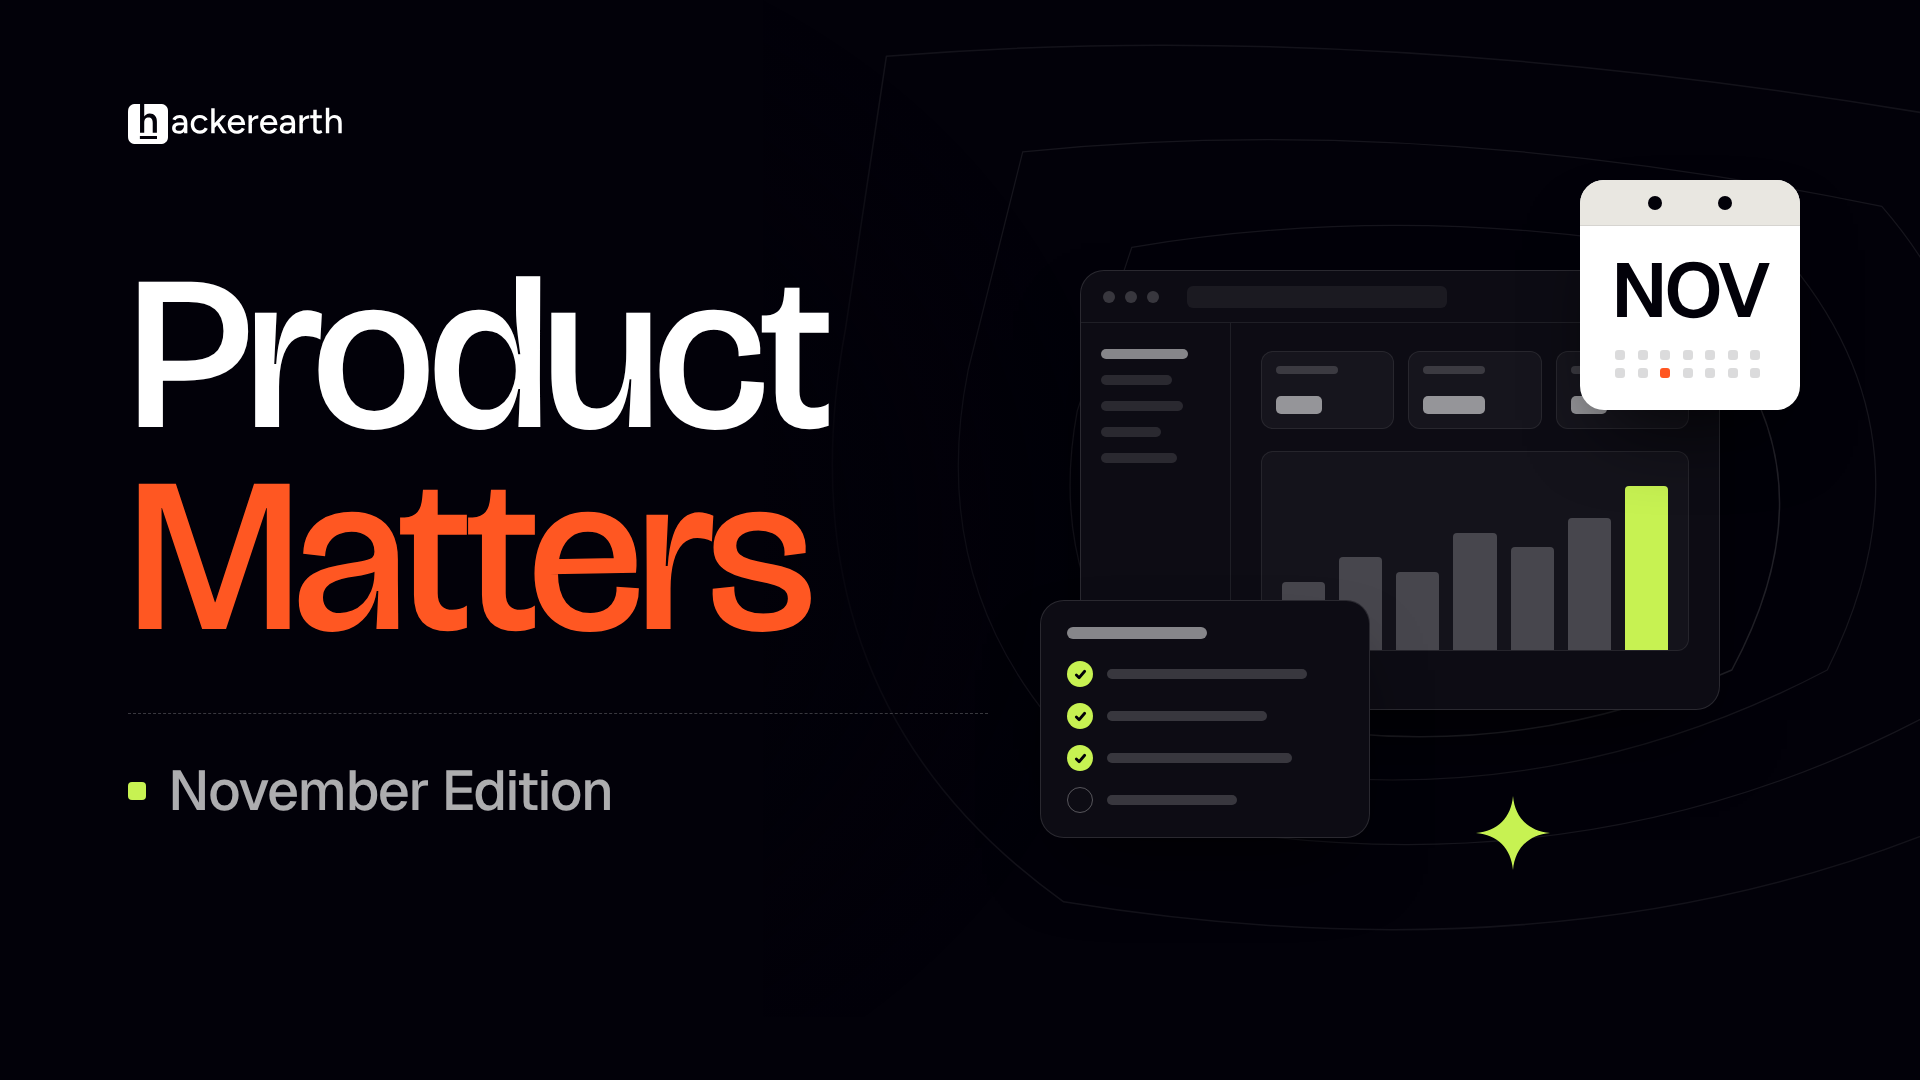
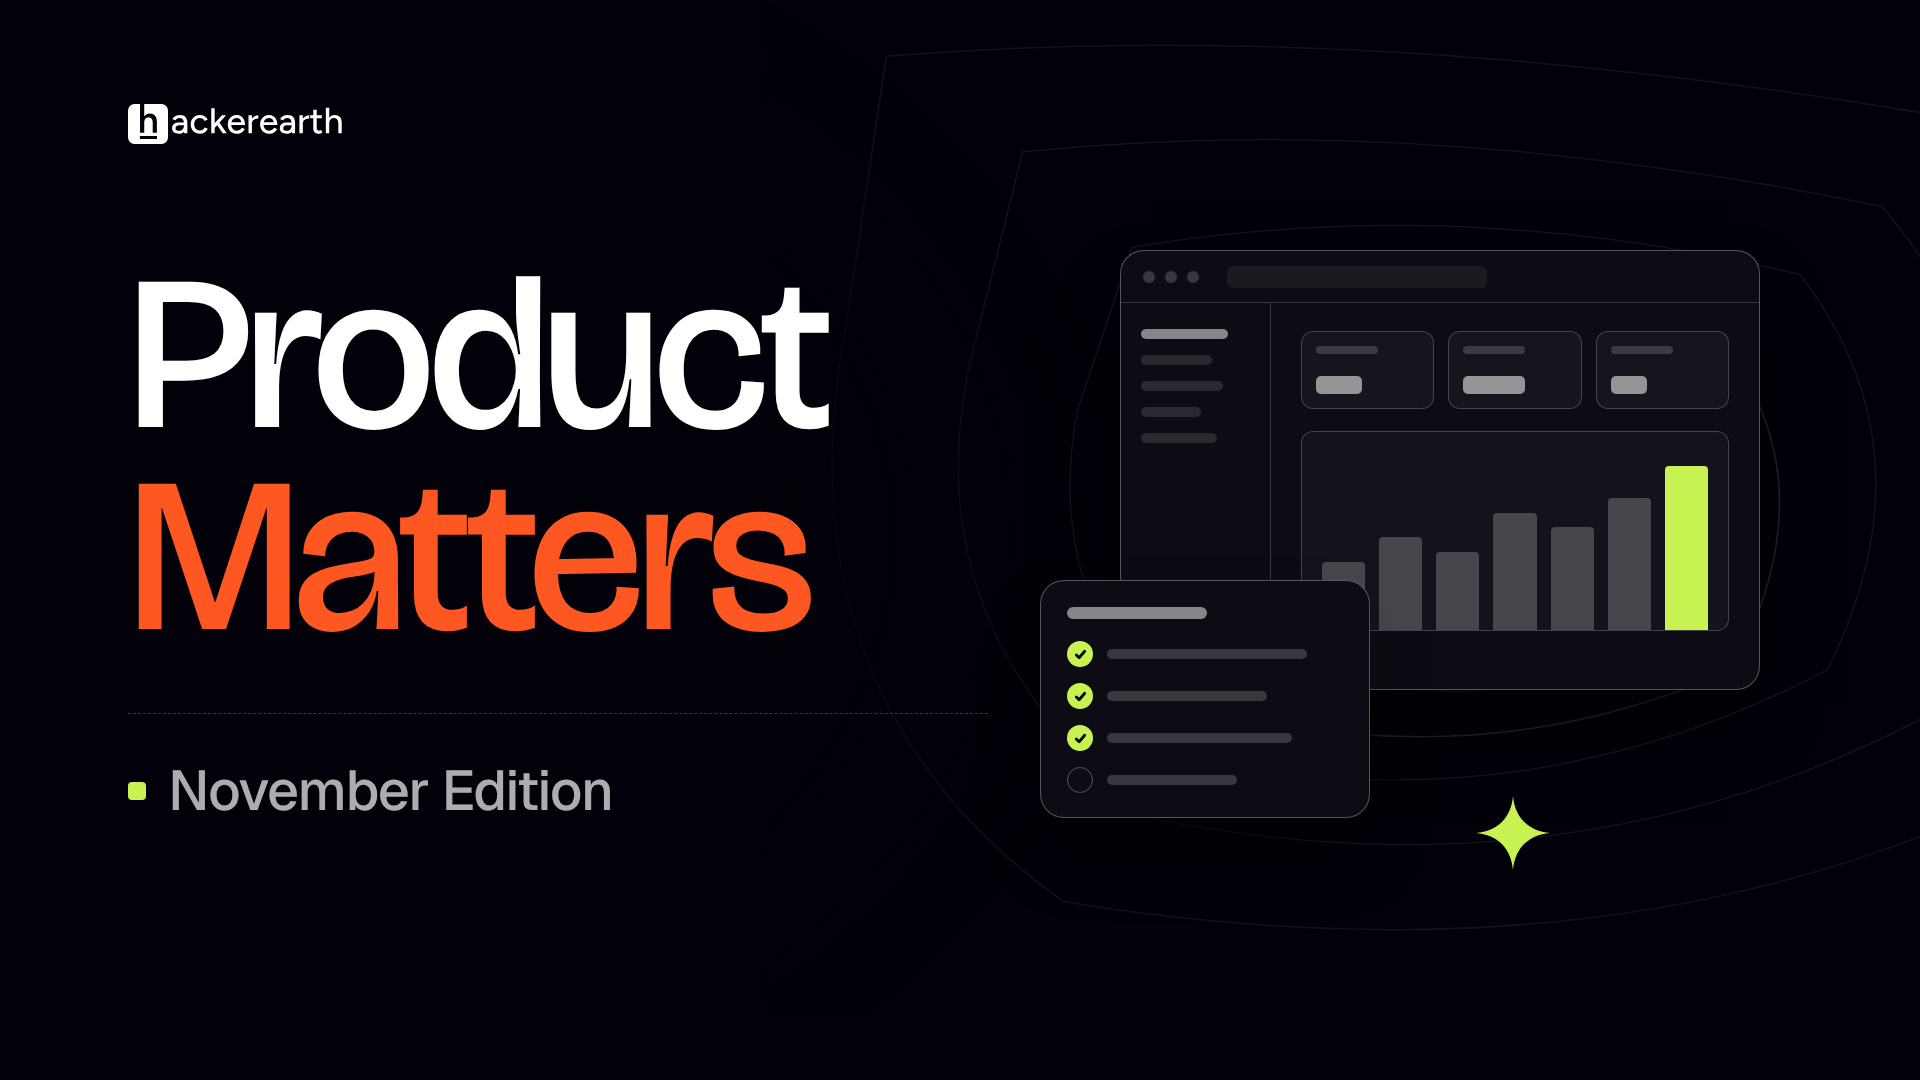
Product Matters cover: drop calendar tile, outline UI elements
Removes the NOV calendar tile, re-centres the graphic, and raises the
panel and inner-card borders so the UI pieces stand off the background.

Claude-Session: https://claude.ai/code/session_011WvSfd7jShGBWHTo2t24v1

diff --git a/blog-covers/product-matters-november/cover.html b/blog-covers/product-matters-november/cover.html
@@ -51,28 +51,28 @@
 
   /* ----- Right: layered product-UI graphic ----- */
   .art { position: absolute; z-index: 1; right: 120px; top: 50%; width: 760px; height: 720px; transform: translateY(-50%); }
-  .panel { position: absolute; border-radius: 24px; background: #0D0C14; border: 1px solid rgba(255,255,255,0.12); box-shadow: 0 40px 80px -30px rgba(0,0,0,0.8); }
+  .panel { position: absolute; border-radius: 24px; background: #0D0C14; border: 1.5px solid rgba(255,255,255,0.30); box-shadow: 0 40px 80px -30px rgba(0,0,0,0.8); }
 
   /* Main window — product dashboard */
-  .window { left: 40px; top: 90px; width: 640px; height: 440px; padding: 0; overflow: hidden; }
-  .chrome { height: 52px; display: flex; align-items: center; gap: 10px; padding: 0 22px; border-bottom: 1px solid rgba(255,255,255,0.08); }
+  .window { left: 80px; top: 70px; width: 640px; height: 440px; padding: 0; overflow: hidden; }
+  .chrome { height: 52px; display: flex; align-items: center; gap: 10px; padding: 0 22px; border-bottom: 1px solid rgba(255,255,255,0.18); }
   .chrome i { width: 12px; height: 12px; border-radius: 50%; background: rgba(255,255,255,0.18); }
   .chrome .addr { margin-left: 18px; height: 22px; width: 260px; border-radius: 6px; background: rgba(255,255,255,0.06); }
   .win-body { display: grid; grid-template-columns: 150px 1fr; height: calc(100% - 52px); }
-  .side { border-right: 1px solid rgba(255,255,255,0.08); padding: 26px 20px; display: flex; flex-direction: column; gap: 16px; }
+  .side { border-right: 1px solid rgba(255,255,255,0.18); padding: 26px 20px; display: flex; flex-direction: column; gap: 16px; }
   .side span { display: block; height: 10px; border-radius: 5px; background: rgba(255,255,255,0.12); }
   .side span.on { background: rgba(255,255,255,0.5); }
   .main { padding: 28px 30px; }
   .kpis { display: grid; grid-template-columns: repeat(3, 1fr); gap: 14px; }
-  .kpi { height: 78px; border-radius: 12px; background: rgba(255,255,255,0.04); border: 1px solid rgba(255,255,255,0.08); padding: 14px; display: flex; flex-direction: column; justify-content: space-between; }
+  .kpi { height: 78px; border-radius: 12px; background: rgba(255,255,255,0.04); border: 1px solid rgba(255,255,255,0.20); padding: 14px; display: flex; flex-direction: column; justify-content: space-between; }
   .kpi span { display: block; height: 8px; border-radius: 4px; background: rgba(255,255,255,0.16); width: 60%; }
   .kpi b { display: block; height: 18px; border-radius: 5px; background: rgba(255,255,255,0.55); width: 45%; }
-  .chart { margin-top: 22px; height: 200px; border-radius: 12px; background: rgba(255,255,255,0.03); border: 1px solid rgba(255,255,255,0.08); padding: 20px 20px 0; display: flex; align-items: flex-end; gap: 14px; }
+  .chart { margin-top: 22px; height: 200px; border-radius: 12px; background: rgba(255,255,255,0.03); border: 1px solid rgba(255,255,255,0.20); padding: 20px 20px 0; display: flex; align-items: flex-end; gap: 14px; }
   .chart i { flex: 1; border-radius: 4px 4px 0 0; background: rgba(255,255,255,0.22); }
   .chart i.hl { background: var(--lime); }
 
   /* Release checklist card */
-  .release { left: 0; top: 420px; width: 330px; padding: 26px 26px 24px; }
+  .release { left: 0; top: 400px; width: 330px; padding: 26px 26px 24px; }
   .release .head { height: 12px; width: 140px; border-radius: 6px; background: rgba(255,255,255,0.5); }
   .release ul { list-style: none; margin-top: 22px; display: flex; flex-direction: column; gap: 16px; }
   .release li { display: flex; align-items: center; gap: 14px; }
@@ -80,15 +80,6 @@
   .release .tick svg { width: 13px; height: 13px; fill: none; stroke: var(--black); stroke-width: 3; stroke-linecap: round; stroke-linejoin: round; }
   .release .tick.todo { background: transparent; border: 1.5px solid rgba(255,255,255,0.3); }
   .release li span { display: block; height: 10px; border-radius: 5px; background: rgba(255,255,255,0.18); }
-
-  /* Calendar tile — November */
-  .cal { right: 0; top: 0; width: 220px; height: 230px; background: #fff; border: none; color: var(--black); overflow: hidden; }
-  .cal .ring { height: 46px; background: #E9E7E1; border-bottom: 1px solid rgba(2,1,9,0.08); display: flex; justify-content: space-around; align-items: center; padding: 0 40px; }
-  .cal .ring i { width: 14px; height: 14px; border-radius: 50%; background: var(--black); }
-  .cal .month { margin-top: 26px; text-align: center; font-family: var(--body); font-weight: 600; font-size: 76px; letter-spacing: -2px; line-height: 1; }
-  .cal .dots { margin: 22px auto 0; width: 150px; display: grid; grid-template-columns: repeat(7, 1fr); gap: 8px; }
-  .cal .dots i { width: 10px; height: 10px; border-radius: 3px; background: rgba(2,1,9,0.14); }
-  .cal .dots i.hl { background: var(--cta); }
 
   /* Spark accent */
   .spark { position: absolute; right: 250px; bottom: 30px; width: 74px; height: 74px; }
@@ -138,11 +129,6 @@
         </ul>
       </div>
 
-      <div class="panel cal">
-        <div class="ring"><i></i><i></i></div>
-        <div class="month">NOV</div>
-        <div class="dots"><i></i><i></i><i></i><i></i><i></i><i></i><i></i><i></i><i></i><i class="hl"></i><i></i><i></i><i></i><i></i></div>
-      </div>
 
       <svg class="spark" viewBox="0 0 24 24"><path d="M12 0 C12.6 7 17 11.4 24 12 C17 12.6 12.6 17 12 24 C11.4 17 7 12.6 0 12 C7 11.4 11.4 7 12 0 Z"/></svg>
     </div>
